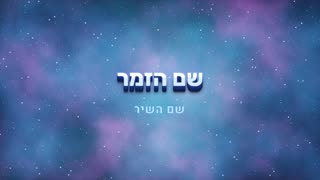
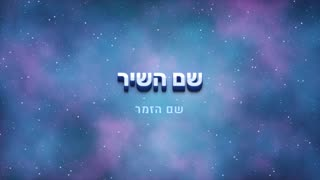
Title card: the song on top, the singer under it
Claude-Session: https://claude.ai/code/session_01Pd6jjE5Tj5cRr1KnLLFndW

Changed region(s): [[0.375, 0.3889, 0.6562, 0.5278], [0.4062, 0.5833, 0.5938, 0.6389]]

diff --git a/web/src/i18n/he.ts b/web/src/i18n/he.ts
@@ -337,7 +337,7 @@ export const he = {
   'export.opening.artistSize': 'גודל שם הזמר',
   'export.opening.songSize': 'גודל שם השיר',
   'export.opening.sizeHint': '100% הוא הגודל הרגיל של העיצוב. שם ארוך לא יגדל מעבר לרוחב המסך.',
-  'export.opening.sizesLabel': 'זמר {artist}% · שיר {song}%',
+  'export.opening.sizesLabel': 'שיר {song}% · זמר {artist}%',
   'export.opening.song': 'שם השיר',
   'export.opening.artist': 'שם הזמר',
   'export.opening.titleCard': 'כותרת יוקרתית בתלת מימד עם שם השיר והזמר',

diff --git a/web/src/i18n/en.ts b/web/src/i18n/en.ts
@@ -339,7 +339,7 @@ export const en: Record<MessageKey, string> = {
   'export.opening.artistSize': 'Singer size',
   'export.opening.songSize': 'Song name size',
   'export.opening.sizeHint': '100% is the design\'s normal size. A long name never grows past the screen width.',
-  'export.opening.sizesLabel': 'singer {artist}% · song {song}%',
+  'export.opening.sizesLabel': 'song {song}% · singer {artist}%',
   'export.opening.song': 'Song name',
   'export.opening.artist': 'Singer',
   'export.opening.titleCard': 'Luxurious 3D title with the song and singer',

diff --git a/web/src/components/style/ExportPanel.tsx b/web/src/components/style/ExportPanel.tsx
@@ -301,8 +301,8 @@ export function ExportPanel({ projectId, title, aspect, onAspectChange, canRende
                     <span data-testid="job-title-sizes">
                       {' · 🔠 '}
                       {t('export.opening.sizesLabel', {
-                        artist: job.options.opening.title.artist_size,
                         song: job.options.opening.title.song_size ?? 100,
+                        artist: job.options.opening.title.artist_size,
                       })}
                     </span>
                   )}

diff --git a/web/src/components/style/OpeningPanel.tsx b/web/src/components/style/OpeningPanel.tsx
@@ -90,8 +90,8 @@ export function OpeningPanel({ choice, onChange, aspect, projectId, own }: Props
         <div className="grid gap-2 sm:grid-cols-2" data-testid="title-sizes">
           {(
             [
-              ['artistSize', 'export.opening.artistSize'],
               ['songSize', 'export.opening.songSize'],
+              ['artistSize', 'export.opening.artistSize'],
             ] as const
           ).map(([k, label]) => (
             <label key={k} className="block space-y-1">

diff --git a/server/tests/test_opening.py b/server/tests/test_opening.py
@@ -43,12 +43,12 @@ def test_title_card_subtitles():
     ass = op.title_ass(op.TitleCard(song="ירושלים {של} זהב", artist="נעמי שמר"), Canvas(1920, 1080), m, m, "he")
     assert "ירושלים ｛של｝ זהב" in ass and "{של}" not in ass   # typed text never becomes ASS codes
     events = [l for l in ass.splitlines() if l.startswith("Dialogue:")]
-    name_lines = [l for l in events if "נעמי שמר" in l]
-    song_lines = [l for l in events if "ירושלים" in l]
+    # the song is the big line on top, the singer under it
+    name_lines = [l for l in events if "ירושלים" in l]
+    song_lines = [l for l in events if "נעמי שמר" in l]
     assert len(name_lines) == 1 + 1 + 16 + 1 + 1 + 1   # glow, shadow + depth, face, light half, light sweep
     assert len(song_lines) == 1
     assert "\u200f" in ass   # right-to-left mark for Hebrew
-    # the singer is the big line, the song is under it and smaller
     size = {k: float(v) for k, v in re.findall(r"Style: ([NS]),[^,]+,([\d.]+)", ass)}
     assert size["S"] < size["N"] * 0.6
     y = lambda line: float(re.search(r"\\pos\([\d.]+,([\d.]+)\)", line).group(1))
@@ -56,7 +56,7 @@ def test_title_card_subtitles():
     # no gold any more: the colours of the intro
     assert op.THEMES["brand"].face_top == "#ffffff" and op.THEMES["brand"].depth.startswith("#8b5c")
     no_artist = op.title_ass(op.TitleCard(song="Song"), Canvas(1280, 720), m, m, "en")
-    assert sum(l.startswith("Dialogue:") for l in no_artist.splitlines()) == len(name_lines)   # the song takes the big place
+    assert sum(l.startswith("Dialogue:") for l in no_artist.splitlines()) == len(name_lines)   # no singer: one line
 
 
 def test_a_very_long_title_is_made_smaller():
@@ -70,15 +70,12 @@ def test_the_user_chooses_the_letter_sizes():
     m = measurer_for(str(SYSTEM_FONT))
     sizes = lambda card: {k: float(v) for k, v in re.findall(r"Style: ([NS]),[^,]+,([\d.]+)", op.title_ass(card, Canvas(1920, 1080), m, m, "he"))}
     normal = sizes(op.TitleCard(song="שיר", artist="זמר"))
-    big_song = sizes(op.TitleCard(song="שיר", artist="זמר", artist_size=70, song_size=150))
-    assert big_song["N"] == pytest.approx(normal["N"] * 0.7, rel=0.01)
-    assert big_song["S"] == pytest.approx(normal["S"] * 1.5, rel=0.01)   # the song does not follow the singer
-    # without a singer the song is the big line, at its own size
-    alone = sizes(op.TitleCard(song="שיר", song_size=60))
-    assert alone["N"] == pytest.approx(sizes(op.TitleCard(song="שיר"))["N"] * 0.6, rel=0.01)
+    chosen = sizes(op.TitleCard(song="שיר", artist="זמר", song_size=70, artist_size=150))
+    assert chosen["N"] == pytest.approx(normal["N"] * 0.7, rel=0.01)    # the song, on top
+    assert chosen["S"] == pytest.approx(normal["S"] * 1.5, rel=0.01)    # the singer does not follow the song
     # a long name still never grows past the screen
     long = "מילה " * 8
-    huge = sizes(op.TitleCard(song="שיר", artist=long, artist_size=160))
+    huge = sizes(op.TitleCard(song=long, artist="זמר", song_size=160))
     assert m.width(long.strip(), huge["N"]) <= 1920 * 0.87
     with pytest.raises(ValidationError):
         op.TitleCard(song="שיר", artist_size=300)

diff --git a/server/karaokesync/exports/opening.py b/server/karaokesync/exports/opening.py
@@ -207,20 +207,18 @@ def _fit(measurer: TextMeasurer, text: str, size: float, max_width: float) -> fl
 
 def title_ass(card: TitleCard, canvas: Canvas, name_font: TextMeasurer, song_font: TextMeasurer,
               language: str | None, theme: TitleTheme | None = None) -> str:
-    """The title card's subtitles, in the intro's colours: the singer big, in
+    """The title card's subtitles, in the intro's colours: the song big, in
     white 3D letters with a purple depth and a soft purple glow, and just under
-    it the song, smaller, in light blue. A light sweeps across the singer's name.
-    Without a singer, the song takes the big place. Times are 0..TITLE_MS.
+    it the singer, smaller, in light blue. A light sweeps across the song's name. Times are 0..TITLE_MS.
     `theme` changes the colours, the depth and the glow (default: the intro's)."""
     t = theme or THEMES["brand"]
     W, H = canvas.width, canvas.height
     unit = min(W, H) / 720
     artist, song = escape_text(card.artist), escape_text(card.song)
-    big, small = (artist, song) if artist else (song, "")
+    big, small = song, artist                         # the song on top, the singer under it
     base = _fit(name_font, big, min(W, H) * 0.19, W * 0.86)     # the design's size, fitted to the width
-    big_scale = (card.artist_size if artist else card.song_size) / 100
-    fs = _fit(name_font, big, min(W, H) * 0.19 * big_scale, W * 0.86)  # bigger only while it still fits
-    sfs = _fit(song_font, small, base * 0.5 * card.song_size / 100, W * 0.84) if small else 0
+    fs = _fit(name_font, big, min(W, H) * 0.19 * card.song_size / 100, W * 0.86)  # bigger only while it still fits
+    sfs = _fit(song_font, small, base * 0.5 * card.artist_size / 100, W * 0.84) if small else 0
     gap = fs * 0.14                                   # a little space between the two lines
     block = fs + (gap + sfs if small else 0)
     cy = H * 0.5 - block / 2 + fs / 2                 # the two lines together are centred

diff --git a/server/karaokesync/api/exports.py b/server/karaokesync/api/exports.py
@@ -58,9 +58,8 @@ class ExportRequest(BaseModel):
 # Workers older than this cannot make a video opening or a preview (their version is
 # what they report in the `workers` table; see worker.runner.WORKER_VERSION).
 MIN_OPENING_WORKER = "2026-11-14.2"   # the intro, transitions, previews
-MIN_TITLE_WORKER = "2026-11-15.1"     # the title card designs (an older worker draws the old title)
 MIN_OWN_INTRO_WORKER = "2026-11-15.2"  # the user's own opening clip
-MIN_TITLE_SIZE_WORKER = "2026-11-15.3"  # the user's own letter sizes on the title card
+MIN_TITLE_WORKER = "2026-11-15.4"     # the title card as it is now: song on top, singer under it, the user's sizes
 
 
 def _worker_too_old(sb: SupabaseClient, needed: str) -> bool:
@@ -160,8 +159,6 @@ def exports_router() -> APIRouter:
                 MIN_OPENING_WORKER,
                 MIN_TITLE_WORKER if body.opening and body.opening.title else "",
                 MIN_OWN_INTRO_WORKER if body.opening and body.opening.intro and body.opening.intro_media_id else "",
-                MIN_TITLE_SIZE_WORKER if body.opening and body.opening.title
-                and (body.opening.title.artist_size, body.opening.title.song_size) != (100, 100) else "",
             )
             if body.opening and body.opening.intro and body.opening.intro_media_id:
                 own = sb.select("background_media", {"id": f"eq.{body.opening.intro_media_id}", "user_id": f"eq.{user.id}",

diff --git a/server/karaokesync/worker/runner.py b/server/karaokesync/worker/runner.py
@@ -35,7 +35,7 @@ CLEANUP_INTERVAL_SECONDS = 3600
 # Shown when the worker starts, to tell an up-to-date worker from an old copy.
 # The part before the space is compared by the API: features that need a newer
 # worker (the video opening, previews) check it before queueing a job.
-WORKER_VERSION = "2026-11-15.3 (title sizes)"
+WORKER_VERSION = "2026-11-15.4 (song on top)"
 
 
 class Heartbeat:
